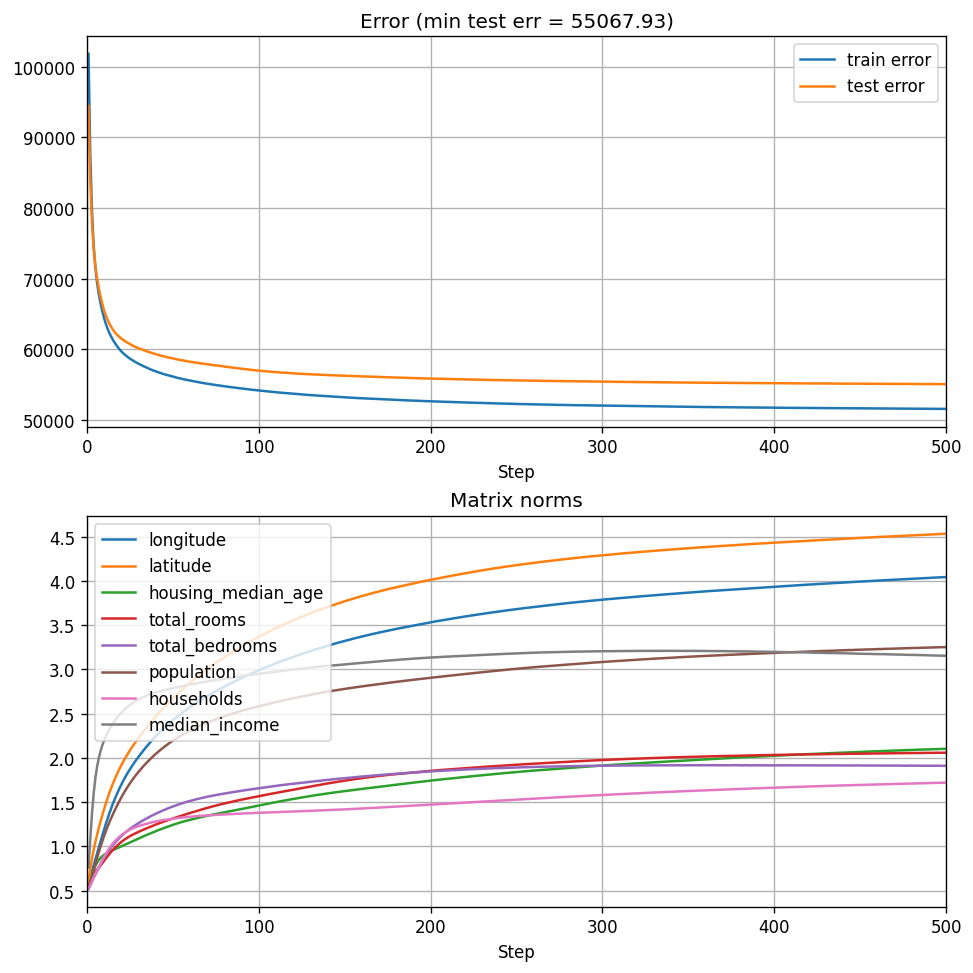
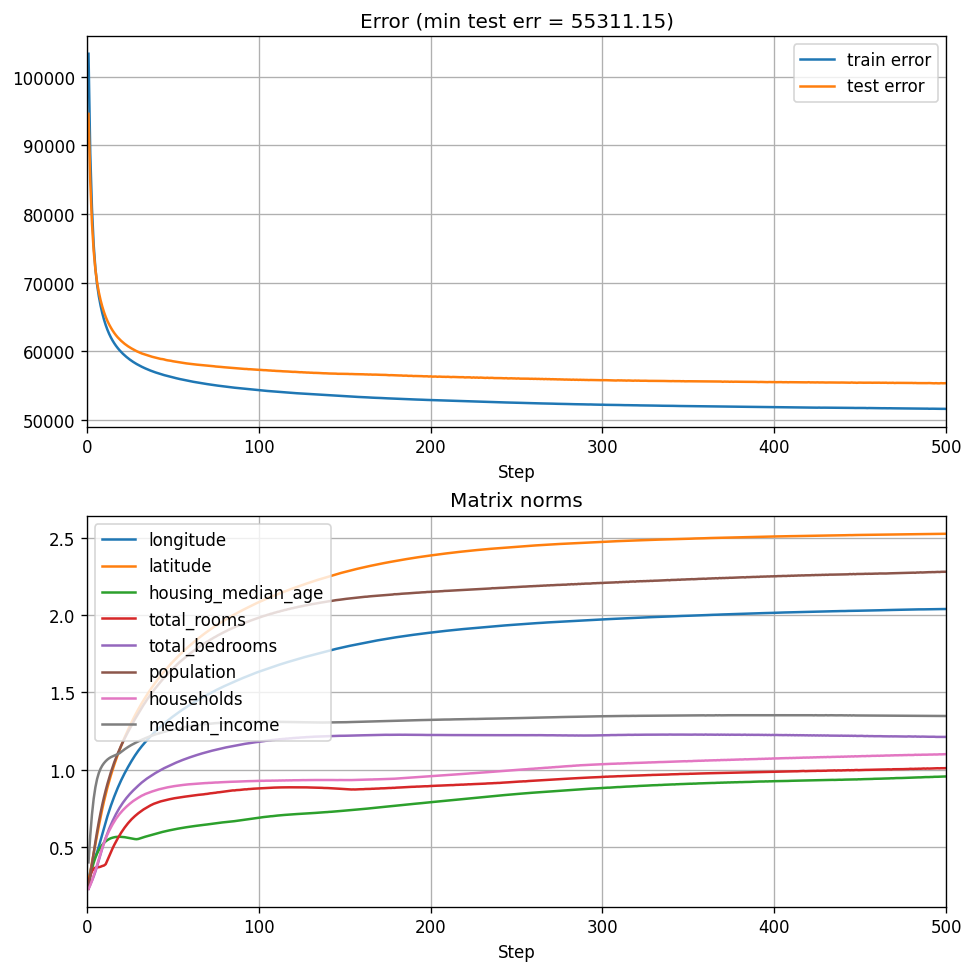
Fix spectrum props post with corrected operator norms

diff --git a/_posts/2026-01-01-Spectrum-Props.md b/_posts/2026-01-01-Spectrum-Props.md
@@ -98,12 +98,13 @@ class MultivariateSpectral(nn.Module):
         self.eigval_idx = eigval_idx
         self.mu = Nondecreasing(dim)
         self.A = nn.Parameter(
-            torch.randn(dim, dim, 1, num_features) / (math.sqrt(dim) * num_features)
+            torch.randn(num_features, dim, dim) / (math.sqrt(dim) * num_features)
         )
 
     def forward(self, x):
-        # batches of sum of x[i] * A[i] 
-        feature_mat = (x * self.A).sum(-1).permute(2, 0, 1)
+        # batches of sum of x[i] * A[i]
+        nf, dim = self.A.shape[:2]
+        feature_mat = (x @ self.A.view(nf, dim * dim)).view(-1, dim, dim)
 
         # diag(mu) replicated per batch
         bias_mat = torch.diagflat(self.mu()).expand_as(feature_mat)
@@ -152,16 +153,16 @@ for i, xyb, zb in zip(count(), xy.split(batch_size), z.split(batch_size)):
 ```
 
 ```
-Loss = 1.3166
-Loss = 0.5477
-Loss = 0.2204
-Loss = 0.1277
-Loss = 0.0816
-Loss = 0.0739
-Loss = 0.0628
-Loss = 0.0586
-Loss = 0.0510
-Loss = 0.0458
+Loss = 0.4582
+Loss = 0.1355
+Loss = 0.0774
+Loss = 0.0649
+Loss = 0.0626
+Loss = 0.0520
+Loss = 0.0534
+Loss = 0.0516
+Loss = 0.0464
+Loss = 0.0468
 ```
 
 OK. The model appears to be learning - the loss is decreasing. So now that we have eliminated most of the redundancy, let's move on to more interesting stuff.
@@ -309,11 +310,11 @@ for event in train_model_stream(model, criterion, n_epochs=5):
 ```
 
 ```
-1	107484.25117084995	98660.8877118415
-2	95854.5373696473	89858.41412593648
-3	87353.91719906522	82952.01820090419
-4	81113.07081004539	78276.20920193197
-5	77119.19058892808	75319.17643985168
+1	109072.75280327671	99536.88016316161
+2	95295.4091119307	89540.08167748511
+3	86628.42283455568	82857.71197495822
+4	80906.37794419663	78535.01666073261
+5	77319.691256485	75821.19027087984
 ```
 
 OK - model appears to be training nicely. This trick of yielding lets us do interesting stuff - for example, we can create a new stream that yields train and test errors, together with the spectral norms of the feature matrices:
@@ -323,8 +324,10 @@ def add_spectral_norms(stream):
     for event in stream:
         model = event['model']
         with torch.no_grad():
-            matrices = model.A.permute(3, 2, 0, 1)
-            norms = tla.matrix_norm(matrices)
+            # remember - we're using only lower-triangular part of each A_i
+            matrices_sym = \
+                model.A.tril() + model.A.tril(diagonal=-1).transpose(-1, -2)
+            norms = tla.matrix_norm(matrices_sym, ord=2)
             norms = norms.ravel().cpu().tolist()
         
         yield {
@@ -349,33 +352,34 @@ for event in add_spectral_norms(train_model_stream(model, criterion, n_epochs=2)
 ```
 
 ```
- {
+  {
     'step': 1,
-    'train_error': 108996.59799459229,
-    'test_error': 99867.97799524757,
-    'norm_longitude': 0.2386510819196701,
-    'norm_latitude': 0.3564183712005615,
-    'norm_housing_median_age': 0.34519562125205994,
-    'norm_total_rooms': 0.28659239411354065,
-    'norm_total_bedrooms': 0.23927736282348633,
-    'norm_population': 0.24056264758110046,
-    'norm_households': 0.19522185623645782,
-    'norm_median_income': 0.4063502550125122
+    'train_error': 105523.77536281559,
+    'test_error': 97731.75678823328,
+    'norm_longitude': 0.12640513479709625,
+    'norm_latitude': 0.1759399175643921,
+    'norm_housing_median_age': 0.15713410079479218,
+    'norm_total_rooms': 0.17977216839790344,
+    'norm_total_bedrooms': 0.16544003784656525,
+    'norm_population': 0.19817979633808136,
+    'norm_households': 0.2670281231403351,
+    'norm_median_income': 0.33458226919174194
 }
-
 {
     'step': 2,
-    'train_error': 96591.91130978987,
-    'test_error': 90401.0083572838,
-    'norm_longitude': 0.2725176513195038,
-    'norm_latitude': 0.40763068199157715,
-    'norm_housing_median_age': 0.38611629605293274,
-    'norm_total_rooms': 0.3064548373222351,
-    'norm_total_bedrooms': 0.2526550889015198,
-    'norm_population': 0.28308284282684326,
-    'norm_households': 0.20578676462173462,
-    'norm_median_income': 0.6054275631904602
+    'train_error': 94575.6796415192,
+    'test_error': 88766.7939206047,
+    'norm_longitude': 0.15076042711734772,
+    'norm_latitude': 0.1756560057401657,
+    'norm_housing_median_age': 0.1784549206495285,
+    'norm_total_rooms': 0.18125228583812714,
+    'norm_total_bedrooms': 0.15172506868839264,
+    'norm_population': 0.19934602081775665,
+    'norm_households': 0.26696428656578064,
+    'norm_median_income': 0.47850197553634644
 }
+
+
 ```
 
 Nice! So now we can iterate and do live-plotting of everything!  This is a lengthy function with mostly boilerplate that plots two graphs - one with train/test errors, and another one with spectral norms of feature matrices. I added comments to make the code clear, but the principle is simple: we create empty plots, and gradually update them as new events arrive.
@@ -453,7 +457,7 @@ live_plot_training(5, 500)
 
 ![pow_spec_props_norms_5]({{"assets/pow_spec_props_norms_5.png" | absolute_url}})
 
-OK. We can see that the model is learning, and after 500 epochs we observe that the resulting model's strongest four features are longitude, latitude, population, and median income. What happens when we increase model size? Let's try $$15 \times 15$$ matrices:
+OK. We can see that the model is learning, and after 500 epochs we observe that the resulting model's strongest three features are longitude, latitude, and population. What happens when we increase model size? Let's try $$15 \times 15$$ matrices:
 
 ```python
 live_plot_training(15, 500)
@@ -461,7 +465,7 @@ live_plot_training(15, 500)
 
 ![pow_spec_props_norms_15]({{"assets/pow_spec_props_norms_15.png" | absolute_url}})
 
-We see that the test loss decreases with the model size, and even though the ranking between features is slightly different, the four strongest features remain longitude, latitude, median income, and population. But we also see something else - the matrix norms continue growing. Apparently, after 500 epochs, the model's parameters do not appear to be converging. Perhaps a more thorough hyper-parameter tuning would help, I don't know. But I chose a conservative option of a small learning rate and many epochs for a reason - to show that scaling model size improves performance, while keeping our model's ability to be interpretable almost as if it was linear.
+We see that the test loss decreases with the model size, and even though the ranking between features is slightly different, the three strongest features remain longitude, latitude, and population. But we also see something else - the matrix norms continue growing. Apparently, after 500 epochs, the model's parameters do not appear to be converging. Perhaps a more thorough hyper-parameter tuning would help, I don't know. But I chose a conservative option of a small learning rate and many epochs for a reason - to show that scaling model size improves performance, while keeping our model's ability to be interpretable almost as if it was linear.
 
 Let's go even further up, to $$30 \times 30$$ matrices:
 
@@ -471,7 +475,7 @@ live_plot_training(30, 500)
 
 ![pow_spec_props_norms_30]({{"assets/pow_spec_props_norms_30.png" | absolute_url}})
 
-We see that the train and test errors go further down, and the four top features remain the strongest. Again - scaling up improves performance, while keeping interpretability and computable robustness bounds.
+We see that the train and test errors go further down, and the three features previously at the top remain there. Again - scaling up improves performance, while keeping interpretability and computable robustness bounds.
 
 So what we got here is really interesting! We have a model that is nonlinear and improves with scaling, while remaining interpretable in terms of feature sensitivity / importance, and we have an easy way to compute global sensitivity bounds (which can be loose).
 
@@ -494,9 +498,9 @@ def live_plot_reg_training(dim, n_epochs, reg_coef):
     )
 
     def penalty(net):
-        # (dim x dim x 1 x n) --> (n x 1 x dim x dim)
-        matrices = net.A.permute(3, 2, 0, 1)
-        norms = tla.matrix_norm(matrices)
+        matrices_sym = \
+            net.A.tril() + net.A.tril(diagonal=-1).transpose(-1, -2)
+        norms = tla.matrix_norm(matrices_sym, ord=2)
         return reg_coef * norms.sum()
 
     criterion = nn.MSELoss()
